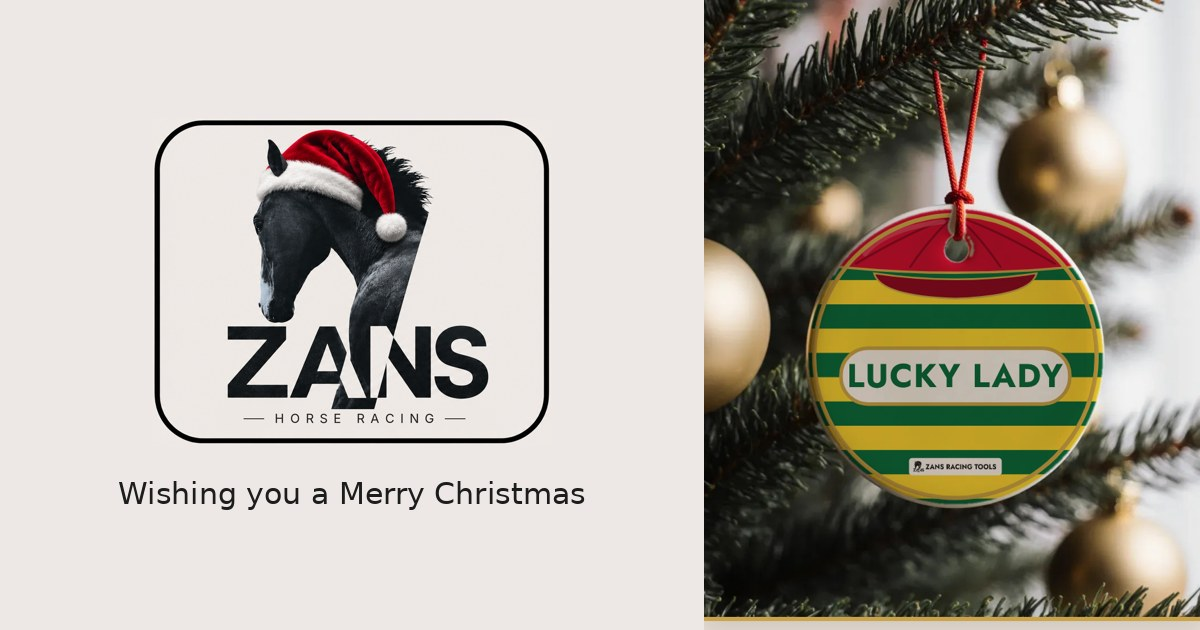
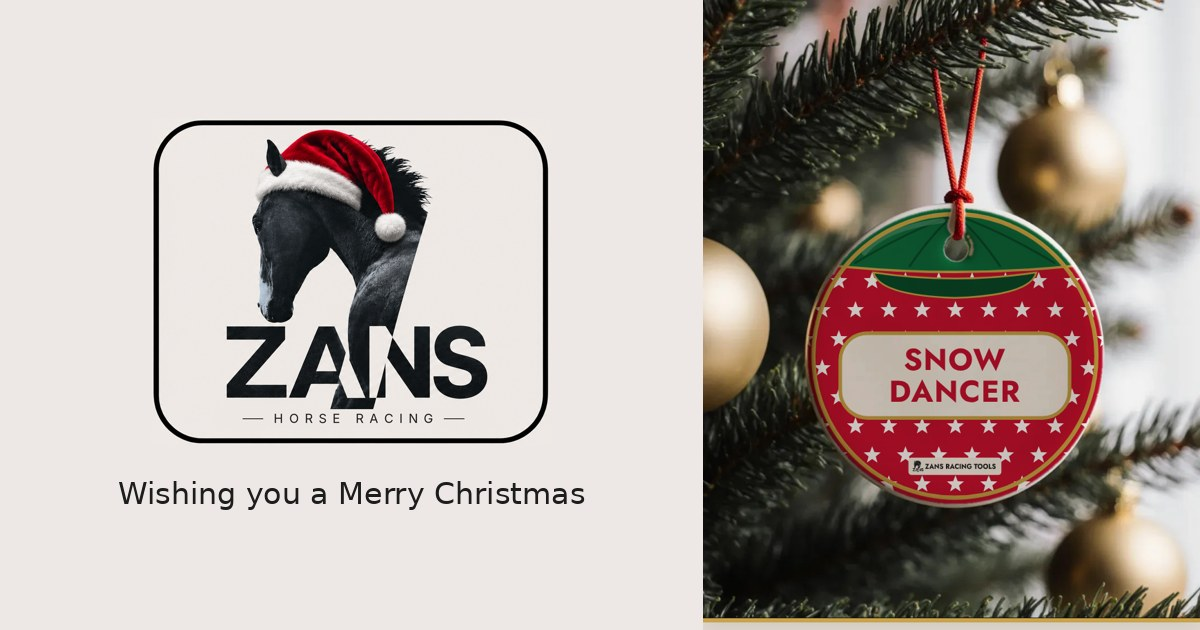
Bauble designer: Christmas starting designs - Snow Dancer (red, white stars, green cap) on the silks bauble, Starry Night (red, gold stars, gold cap) on the racing green bauble; sparkles keep clear of control edges; share image updated
Claude-Session: https://claude.ai/code/session_012o9aG8XCDY6YZ4R9V2L3QY

diff --git a/docs/bauble-designer/index.html b/docs/bauble-designer/index.html
@@ -188,7 +188,7 @@ input[type=text],input[type=number]{background:#FBF7F0;border:1.5px solid var(--
       <div class="step">
         <h2><b>5</b> Type the name</h2>
         <label for="name" class="lbl block mt-3 mb-1">Horse, syndicate or person's name</label>
-        <input id="name" type="text" maxlength="28" autocomplete="off" value="Lucky Lady">
+        <input id="name" type="text" maxlength="28" autocomplete="off" value="Snow Dancer">
         <div class="flex justify-between mt-1"><span id="nameerr" class="err" aria-live="polite"></span><span class="hint mono" id="count"></span></div>
       </div>
 
@@ -822,7 +822,13 @@ function svgWrap(id, inner) { return `<svg xmlns="http://www.w3.org/2000/svg" xm
 function printSVG(d, id) { return S.style === 'A' ? designA(d, id) : designB(d, id); }
 
 /* ---------- state ---------- */
-const S = { style: 'A', pat: 'hoops', body: 'hoops', c1: '#0E6B3B', c2: '#F5D130', sleeves: 'plain', capCol: '#C8102E', name: 'Lucky Lady', view: 'flat', scene: 'soft' };
+// Christmas starting designs (Alex 5 Nov): Snow Dancer on the silks bauble, Starry Night on the racing green bauble.
+// Names checked: no famous racehorse of either name. Colours: Christmas red, white, gold, racing green (never green + pink).
+const DEF = {
+  A: { pat: 'stars', body: 'stars', c1: '#C8102E', c2: '#FFFFFF', sleeves: 'plain', capCol: '#0E6B3B', name: 'Snow Dancer' },
+  B: { pat: 'stars', body: 'stars', c1: '#C8102E', c2: '#F5D130', sleeves: 'plain', capCol: '#F5D130', name: 'Starry Night' } };
+const untouched = () => Object.keys(DEF[S.style]).every(k => S[k] === DEF[S.style][k]);
+const S = Object.assign({ style: 'A', view: 'flat', scene: 'soft' }, DEF.A);
 function design() {
   const n = Z.checkName(S.name);
   const d = Z.normalise({ layout: 'B', body: S.style === 'A' ? S.pat : S.body, allover: S.pat, c1: S.c1, c2: S.c2, sleeves: S.sleeves, cap: 'contrast', k1: S.capCol, k2: S.capCol });
@@ -845,8 +851,8 @@ const PRESETS = [['Green and yellow hoops, red cap','hoops','#0E6B3B','#F5D130',
 function renderControls() {
   const SB = $('styles'); SB.innerHTML = '';
   [['A', 'Silks bauble', 'Your silks all over, a jockey cap across the top, your name on a cream plate'], ['B', 'Racing green bauble', 'Racing green and gold, your jersey and cap, your name in gold, Merry Christmas']].forEach(([k, t, s]) => {
-    const d = design(); const svg = (k === 'A' ? designA : designB)(Object.assign({}, d, { allover: S.pat, body: k === 'A' ? S.pat : S.body }), 'st' + k);
-    SB.appendChild(optBtn(`<div class="mx-auto" style="max-width:120px">${svg}</div><div class="disp font-semibold mt-2">${t}</div><div class="hint text-sm">${s}</div>`, S.style === k, () => { S.style = k; render(); }));
+    const d = design(), u = untouched() ? DEF[k] : null; const svg = (k === 'A' ? designA : designB)(Object.assign({}, d, u ? { allover: u.pat, body: u.body, c1: u.c1, c2: u.c2, sleeves: u.sleeves, capCol: u.capCol, k1: u.capCol, k2: u.capCol, name: u.name.toUpperCase() } : { allover: S.pat, body: k === 'A' ? S.pat : S.body }), 'st' + k);
+    SB.appendChild(optBtn(`<div class="mx-auto" style="max-width:120px">${svg}</div><div class="disp font-semibold mt-2">${t}</div><div class="hint text-sm">${s}</div>`, S.style === k, () => { if (S.style !== k) { if (untouched()) Object.assign(S, DEF[k]); else if (S.name === DEF[S.style].name) S.name = DEF[k].name; } S.style = k; render(); }));
   });
   const PR = $('presets'); PR.innerHTML = '';
   PRESETS.forEach(([lab, p, a, b, cap], i) => {
@@ -859,6 +865,7 @@ function renderControls() {
   $('pick1').value = S.c1; $('pick2').value = S.c2; $('capcol').value = S.capCol;
   $('sleevestep').hidden = S.style !== 'B';
   const SL = $('sleeves'); SL.innerHTML = ''; Z.SLEEVES.forEach(p => SL.appendChild(chip(p === 'plain' ? 'Same as jersey' : Z.NAMES[p], S.sleeves === p, () => { S.sleeves = p; render(); })));
+  if (document.activeElement !== $('name') && $('name').value !== S.name) $('name').value = S.name;
   $('count').textContent = `${(S.name || '').length}/28`;
 }
 
@@ -896,9 +903,9 @@ function render() {
   $('copy').disabled = !n.ok; $('copy').style.opacity = n.ok ? 1 : .45;
   $('vflat').setAttribute('aria-pressed', S.view === 'flat'); $('vtree').setAttribute('aria-pressed', S.view === 'tree');
   $('flatwrap').hidden = S.view !== 'flat'; $('treewrap').hidden = S.view !== 'tree';
-  try { localStorage.setItem('zans_bauble_design', JSON.stringify(S)); } catch (e) {}
+  try { localStorage.setItem('zans_bauble_design_v2', JSON.stringify(S)); } catch (e) {}
 }
-try { const saved = JSON.parse(localStorage.getItem('zans_bauble_design') || 'null'); if (saved) Object.assign(S, saved); } catch (e) {}
+try { const saved = JSON.parse(localStorage.getItem('zans_bauble_design_v2') || 'null'); if (saved) Object.assign(S, saved); } catch (e) {}
 $('name').value = S.name;
 $('name').addEventListener('input', e => { S.name = e.target.value; render(); });
 $('pick1').addEventListener('input', e => { S.c1 = e.target.value.toUpperCase(); render(); });
@@ -959,7 +966,7 @@ window.ZANSBauble = {
   }
   function check() {   // fade out stars that sit over anything people tap or look at
     cv.style.visibility = 'hidden';
-    for (const s of stars) { const el = document.elementFromPoint(s.x, s.y); s.ok = !(el && el.closest(KEEP_CLEAR)); }
+    for (const s of stars) { const d = s.r * 1.6; s.ok = [[0, 0], [d, 0], [-d, 0], [0, d], [0, -d]].every(([dx, dy]) => { const el = document.elementFromPoint(s.x + dx, s.y + dy); return !(el && el.closest(KEEP_CLEAR)); }); }
     cv.style.visibility = '';
   }
   // Realistic glint: soft warm glow, thin light spikes that taper out, bright white core (pre-drawn once, then stamped)

diff --git a/tools/bauble-designer/bauble.js b/tools/bauble-designer/bauble.js
@@ -54,7 +54,13 @@ function svgWrap(id, inner) { return `<svg xmlns="http://www.w3.org/2000/svg" xm
 function printSVG(d, id) { return S.style === 'A' ? designA(d, id) : designB(d, id); }
 
 /* ---------- state ---------- */
-const S = { style: 'A', pat: 'hoops', body: 'hoops', c1: '#0E6B3B', c2: '#F5D130', sleeves: 'plain', capCol: '#C8102E', name: 'Lucky Lady', view: 'flat', scene: 'soft' };
+// Christmas starting designs (Alex 5 Nov): Snow Dancer on the silks bauble, Starry Night on the racing green bauble.
+// Names checked: no famous racehorse of either name. Colours: Christmas red, white, gold, racing green (never green + pink).
+const DEF = {
+  A: { pat: 'stars', body: 'stars', c1: '#C8102E', c2: '#FFFFFF', sleeves: 'plain', capCol: '#0E6B3B', name: 'Snow Dancer' },
+  B: { pat: 'stars', body: 'stars', c1: '#C8102E', c2: '#F5D130', sleeves: 'plain', capCol: '#F5D130', name: 'Starry Night' } };
+const untouched = () => Object.keys(DEF[S.style]).every(k => S[k] === DEF[S.style][k]);
+const S = Object.assign({ style: 'A', view: 'flat', scene: 'soft' }, DEF.A);
 function design() {
   const n = Z.checkName(S.name);
   const d = Z.normalise({ layout: 'B', body: S.style === 'A' ? S.pat : S.body, allover: S.pat, c1: S.c1, c2: S.c2, sleeves: S.sleeves, cap: 'contrast', k1: S.capCol, k2: S.capCol });
@@ -77,8 +83,8 @@ const PRESETS = [['Green and yellow hoops, red cap','hoops','#0E6B3B','#F5D130',
 function renderControls() {
   const SB = $('styles'); SB.innerHTML = '';
   [['A', 'Silks bauble', 'Your silks all over, a jockey cap across the top, your name on a cream plate'], ['B', 'Racing green bauble', 'Racing green and gold, your jersey and cap, your name in gold, Merry Christmas']].forEach(([k, t, s]) => {
-    const d = design(); const svg = (k === 'A' ? designA : designB)(Object.assign({}, d, { allover: S.pat, body: k === 'A' ? S.pat : S.body }), 'st' + k);
-    SB.appendChild(optBtn(`<div class="mx-auto" style="max-width:120px">${svg}</div><div class="disp font-semibold mt-2">${t}</div><div class="hint text-sm">${s}</div>`, S.style === k, () => { S.style = k; render(); }));
+    const d = design(), u = untouched() ? DEF[k] : null; const svg = (k === 'A' ? designA : designB)(Object.assign({}, d, u ? { allover: u.pat, body: u.body, c1: u.c1, c2: u.c2, sleeves: u.sleeves, capCol: u.capCol, k1: u.capCol, k2: u.capCol, name: u.name.toUpperCase() } : { allover: S.pat, body: k === 'A' ? S.pat : S.body }), 'st' + k);
+    SB.appendChild(optBtn(`<div class="mx-auto" style="max-width:120px">${svg}</div><div class="disp font-semibold mt-2">${t}</div><div class="hint text-sm">${s}</div>`, S.style === k, () => { if (S.style !== k) { if (untouched()) Object.assign(S, DEF[k]); else if (S.name === DEF[S.style].name) S.name = DEF[k].name; } S.style = k; render(); }));
   });
   const PR = $('presets'); PR.innerHTML = '';
   PRESETS.forEach(([lab, p, a, b, cap], i) => {
@@ -91,6 +97,7 @@ function renderControls() {
   $('pick1').value = S.c1; $('pick2').value = S.c2; $('capcol').value = S.capCol;
   $('sleevestep').hidden = S.style !== 'B';
   const SL = $('sleeves'); SL.innerHTML = ''; Z.SLEEVES.forEach(p => SL.appendChild(chip(p === 'plain' ? 'Same as jersey' : Z.NAMES[p], S.sleeves === p, () => { S.sleeves = p; render(); })));
+  if (document.activeElement !== $('name') && $('name').value !== S.name) $('name').value = S.name;
   $('count').textContent = `${(S.name || '').length}/28`;
 }
 
@@ -128,9 +135,9 @@ function render() {
   $('copy').disabled = !n.ok; $('copy').style.opacity = n.ok ? 1 : .45;
   $('vflat').setAttribute('aria-pressed', S.view === 'flat'); $('vtree').setAttribute('aria-pressed', S.view === 'tree');
   $('flatwrap').hidden = S.view !== 'flat'; $('treewrap').hidden = S.view !== 'tree';
-  try { localStorage.setItem('zans_bauble_design', JSON.stringify(S)); } catch (e) {}
+  try { localStorage.setItem('zans_bauble_design_v2', JSON.stringify(S)); } catch (e) {}
 }
-try { const saved = JSON.parse(localStorage.getItem('zans_bauble_design') || 'null'); if (saved) Object.assign(S, saved); } catch (e) {}
+try { const saved = JSON.parse(localStorage.getItem('zans_bauble_design_v2') || 'null'); if (saved) Object.assign(S, saved); } catch (e) {}
 $('name').value = S.name;
 $('name').addEventListener('input', e => { S.name = e.target.value; render(); });
 $('pick1').addEventListener('input', e => { S.c1 = e.target.value.toUpperCase(); render(); });
@@ -191,7 +198,7 @@ window.ZANSBauble = {
   }
   function check() {   // fade out stars that sit over anything people tap or look at
     cv.style.visibility = 'hidden';
-    for (const s of stars) { const el = document.elementFromPoint(s.x, s.y); s.ok = !(el && el.closest(KEEP_CLEAR)); }
+    for (const s of stars) { const d = s.r * 1.6; s.ok = [[0, 0], [d, 0], [-d, 0], [0, d], [0, -d]].every(([dx, dy]) => { const el = document.elementFromPoint(s.x + dx, s.y + dy); return !(el && el.closest(KEEP_CLEAR)); }); }
     cv.style.visibility = '';
   }
   // Realistic glint: soft warm glow, thin light spikes that taper out, bright white core (pre-drawn once, then stamped)

diff --git a/tools/bauble-designer/body.html b/tools/bauble-designer/body.html
@@ -74,7 +74,7 @@
       <div class="step">
         <h2><b>5</b> Type the name</h2>
         <label for="name" class="lbl block mt-3 mb-1">Horse, syndicate or person's name</label>
-        <input id="name" type="text" maxlength="28" autocomplete="off" value="Lucky Lady">
+        <input id="name" type="text" maxlength="28" autocomplete="off" value="Snow Dancer">
         <div class="flex justify-between mt-1"><span id="nameerr" class="err" aria-live="polite"></span><span class="hint mono" id="count"></span></div>
       </div>
 
